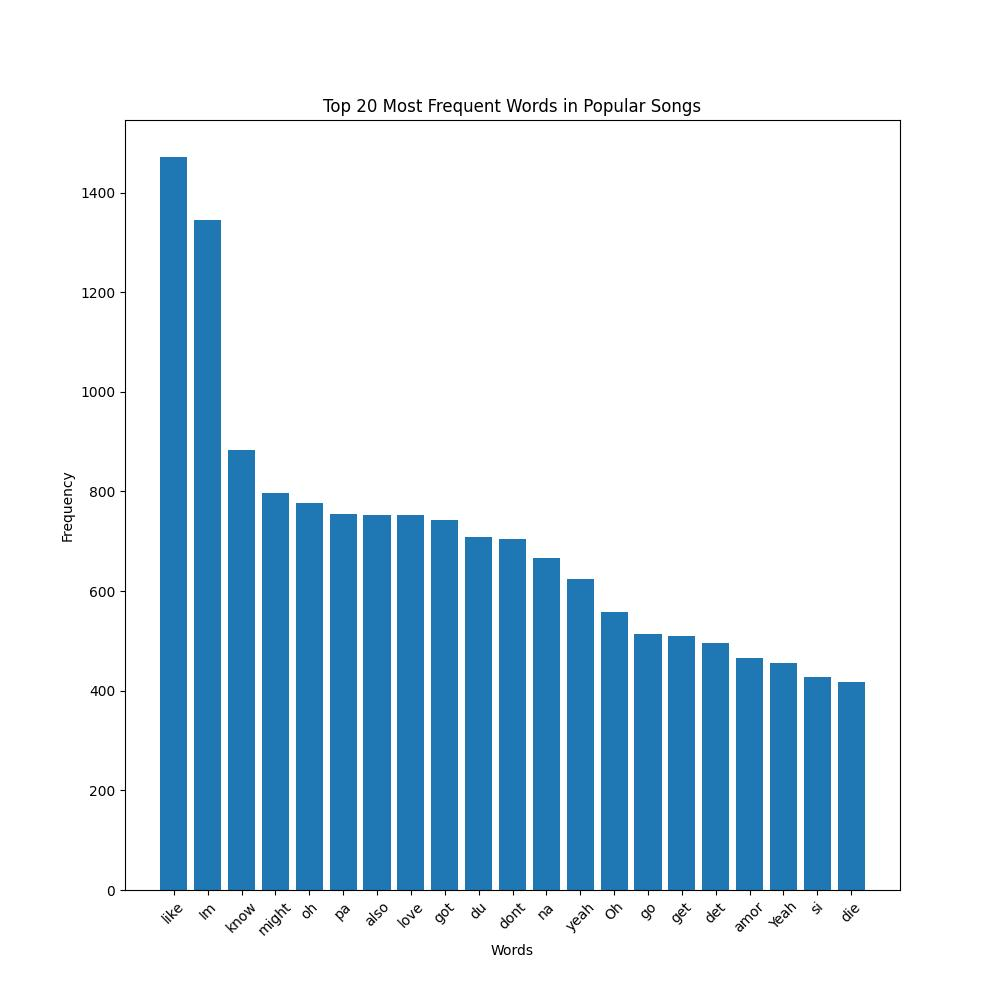
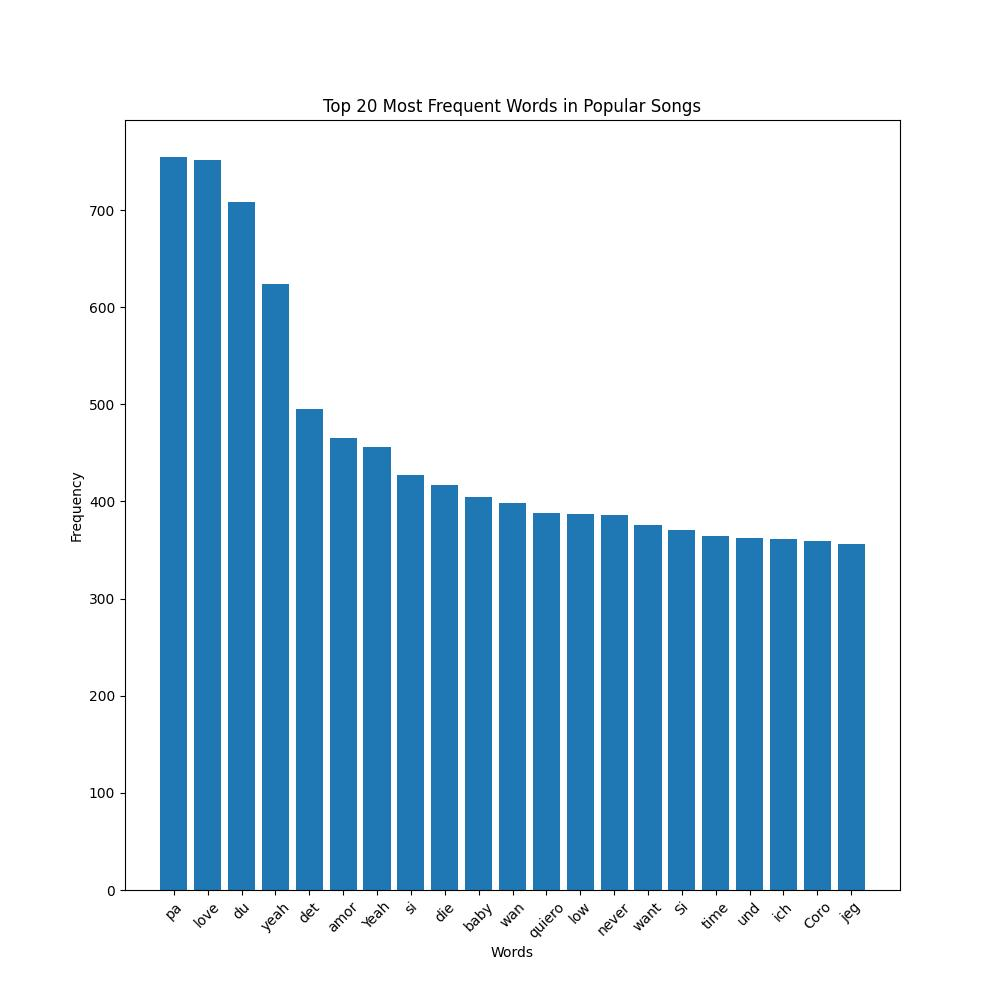
Added stop words, year sort by min word length

diff --git a/functions/top20_freq.py b/functions/top20_freq.py
@@ -53,7 +53,7 @@ def top20_words_frequency(num_letters, directory):
     #     del most_common_words[0]    
 
     words, counts = zip(*most_common_words)
-    # print(words)
+    print(words)
 
     # Plotting the histogram
     plt.figure(figsize=(10, 10))
@@ -65,8 +65,11 @@ def top20_words_frequency(num_letters, directory):
     # plt.show()
 
     # If going by year...
-    if directory.isnumeric():
+    if directory.isnumeric() and num_letters == 0:
         plt.savefig('visualizations/top20freq_{year}.jpg'.format(year=directory))
+
+    elif directory.isnumeric() and num_letters != 0:
+        plt.savefig('visualizations/top20freq_{year}_{num_letters}.jpg'.format(year=directory, num_letters=num_letters))
     
     else:
         if num_letters == 0:
@@ -77,6 +80,8 @@ def top20_words_frequency(num_letters, directory):
 
 for i in range(2017, 2022):
     top20_words_frequency(0, str(i))
+    top20_words_frequency(4, str(i))
+    top20_words_frequency(5, str(i))
     print('Completed {year}'.format(year=i))
 
 for i in range(15):

diff --git a/functions/prepare_lyrics.py b/functions/prepare_lyrics.py
@@ -12,10 +12,13 @@ def prepare_lyrics(directory):
     stop_words = set(stopwords.words('english'))
     spanish_stop_words = set(stopwords.words('spanish'))
     stop_words.update(spanish_stop_words)
-    stop_words.update(['[', ']', ':', ';', "''", '(', ')', '&', ',', '?', '``', '-', ',', '!', '\'', '.', '/', '\'', '"', '...', '*', '--', '—', '’', '“', '”','–'])
+    stop_words.update(['[', ']', ':', ';', "''", '(', ')', '&', ',', '?', '``', '-', ',', '!', '\'', '.', '/', '\'', '"', '...', '*', '--', '—', '’', '“', '”','–', '//'])
     
     # Song specific stop words
     stop_words.update(['feat', 'chorus', 'verse', 'pre-chorus', 'post-chorus', 'outro', 'verso', 'refrain', 'lyrics'])
+
+    # Extremely common words that appear every time
+    stop_words.update(['like', 'im', 'know', 'might', 'dont', 'got', 'also', 'oh', 'aint', 'youre', 'get', 'go', 'na', 'one'])
 
     # Lemmatizer
     lemmatizer = WordNetLemmatizer() 
